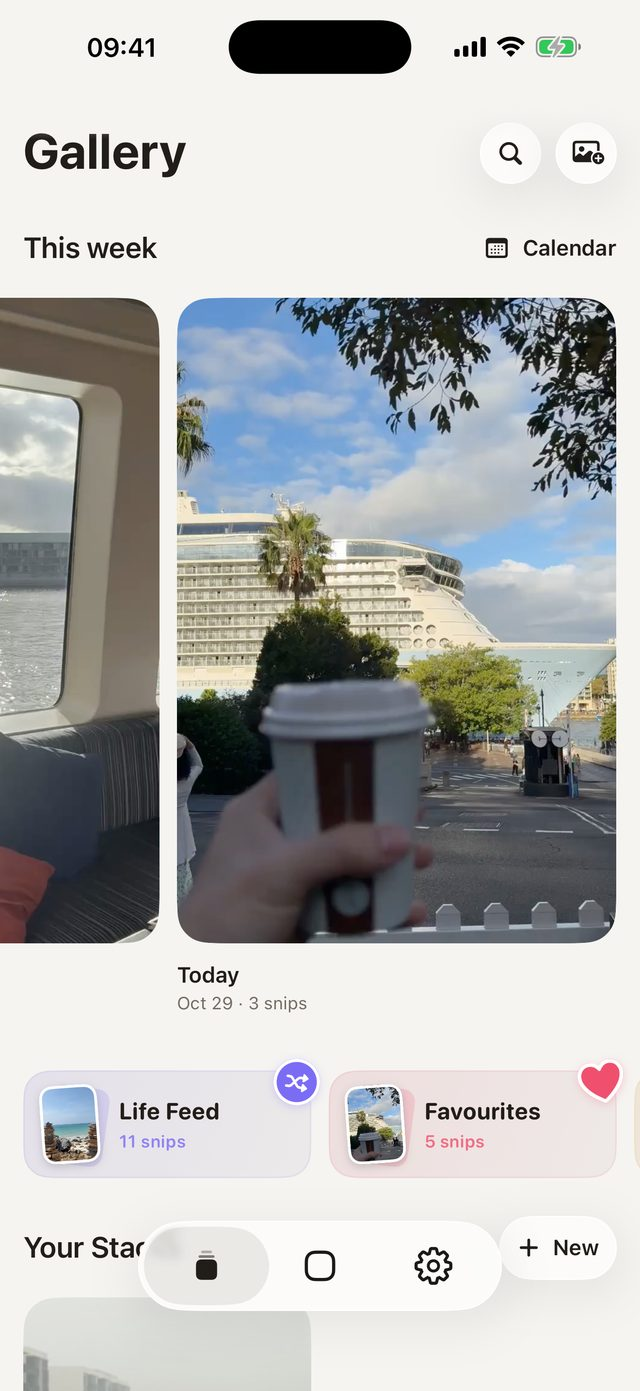
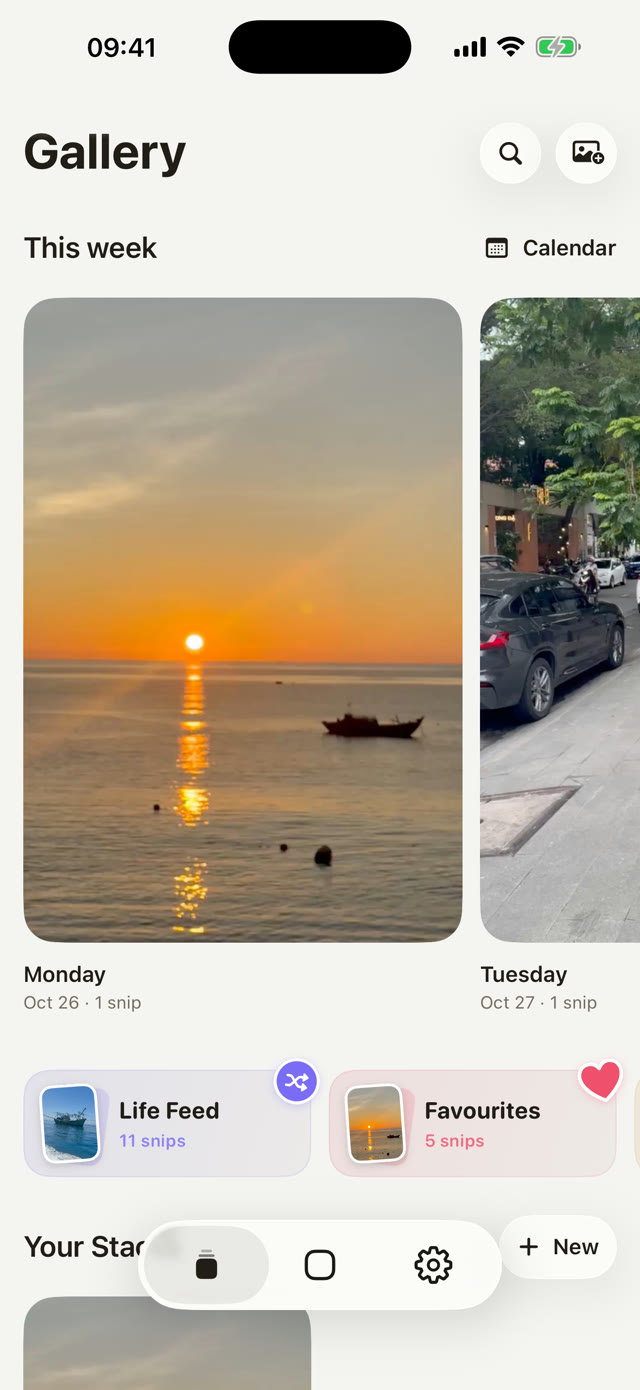
Landing: Doomscroll and collage screens; gallery screen on the sunset

diff --git a/index.html b/index.html
@@ -61,8 +61,8 @@
   .screens { max-width: 1040px; margin: 80px auto 0; }
   .eyebrow { text-transform: uppercase; letter-spacing: .14em; font-size: 12px; font-weight: 600; }
   h2 { font-size: clamp(28px, 5vw, 40px); line-height: 1.15; letter-spacing: -.025em; margin: 12px 0; }
-  .screen-grid { display: grid; grid-template-columns: repeat(3, minmax(0, 1fr)); gap: 24px; max-width: 920px; margin: 40px auto 0; }
-  figure { margin: 0; min-width: 0; }
+  .screen-grid { display: flex; flex-wrap: wrap; justify-content: center; gap: 36px 24px; max-width: 920px; margin: 40px auto 0; }
+  figure { margin: 0; min-width: 0; flex: 0 0 calc((100% - 48px) / 3); }
   .screen-grid img, .screen-grid video { display: block; width: 100%; height: auto; border-radius: 32px; box-shadow: 0 18px 40px rgba(0,0,0,.18); border: 5px solid #24231f; }
   figcaption { font-size: 14px; color: var(--muted); margin: 22px 0 0; }
   figcaption strong { color: var(--ink); font-size: 17px; }
@@ -83,7 +83,8 @@
   .fb-note { text-align: center; font-size: 15px; margin-top: 14px; min-height: 1.5em; }
   .fb-hp { position: absolute; left: -9999px; width: 1px; height: 1px; opacity: 0; }
   @media(max-width: 640px) {
-    .screen-grid { grid-template-columns: 1fr; max-width: 300px; gap: 36px; }
+    .screen-grid { max-width: 300px; gap: 36px; }
+    figure { flex-basis: 100%; }
     .screen-grid img, .screen-grid video { border-radius: 28px; border-width: 4px; }
     figcaption { margin-top: 14px; }
     .screens { margin-top: 64px; }
@@ -113,6 +114,8 @@
       <figure><img src="assets/gallery-real-snips.jpg" width="640" height="1391" alt="snipcam Gallery with this week's day stacks, Life Feed, Favourites and Your Stacks" loading="lazy"><figcaption><strong>Stack your snips</strong></figcaption></figure>
       <figure><video autoplay muted playsinline loop preload="metadata" poster="assets/capture-real-snips.jpg" width="720" height="1564" aria-label="The snipcam capture animation: the frame sinks, a light runs round its glass rim, and the snip drops into the Stack tab"><source src="assets/capture-animation.mp4" type="video/mp4"></video><figcaption><strong>Capture in motion</strong></figcaption></figure>
       <figure><video autoplay muted playsinline loop preload="metadata" poster="assets/playback-real-snips.jpg" width="720" height="1564" aria-label="snipcam replaying a stack of snips"><source src="assets/playback-real-snips.mp4" type="video/mp4"><a href="assets/playback-real-snips.mp4">Watch snipcam playback</a></video><figcaption><strong>Replay your stack</strong></figcaption></figure>
+      <figure><img src="assets/feed-real-snips.jpg" width="640" height="1391" alt="The Life Feed scrolling from one snip to the next" loading="lazy"><figcaption><strong>Doomscroll your snips</strong></figcaption></figure>
+      <figure><img src="assets/layout-real-snips.jpg" width="640" height="1391" alt="Three snips of a day arranged as a collage layout" loading="lazy"><figcaption><strong>Make a collage</strong></figcaption></figure>
     </div>
     <a class="cta" href="https://testflight.apple.com/join/RshC7Wny">Try SnipCam on TestFlight</a>
   </section>
